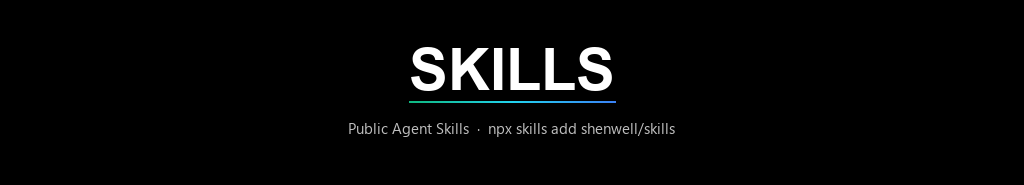
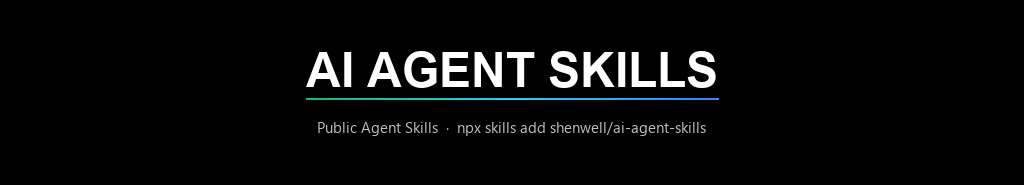
Rename repository to ai-agent-skills and update branding.

Changed region(s): [[0.2812, 0.2432, 0.7188, 0.4865], [0.3125, 0.6486, 0.6875, 0.7297], [0.2812, 0.5135, 0.7188, 0.5676]]

diff --git a/README.md b/README.md
@@ -1,15 +1,17 @@
-# shenwell/skills
+# AI Agent Skills
 
 <p align="center">
-  <img src="assets/banner.png" alt="SKILLS" width="1024" />
+  <img src="assets/banner.png" alt="AI Agent Skills" width="1024" />
 </p>
 
 [![License: MIT](https://img.shields.io/badge/License-MIT-blue.svg)](LICENSE)
 [![Agent Skills](https://img.shields.io/badge/Agent%20Skills-compatible-black)](https://agentskills.io/)
-[![skills.sh](https://skills.sh/b/shenwell/skills)](https://skills.sh/shenwell/skills)
+[![skills.sh](https://skills.sh/b/shenwell/ai-agent-skills)](https://skills.sh/shenwell/ai-agent-skills)
+
+Public collection of [Agent Skills](https://agentskills.io/) for Cursor, Claude Code, Codex, Windsurf, and more.
 
 ```
-shenwell/skills
+shenwell/ai-agent-skills
 └── skills/
     ├── goal-mode/          ← Claude Code /goal equivalent (open)
     └── <next-skill>/
@@ -20,10 +22,10 @@ shenwell/skills
 ## Install
 
 ```bash
-npx skills add shenwell/skills --list
-npx skills add shenwell/skills --skill goal-mode -g
+npx skills add shenwell/ai-agent-skills --list
+npx skills add shenwell/ai-agent-skills --skill goal-mode -g
 # or all skills in this repo:
-npx skills add shenwell/skills --all -g
+npx skills add shenwell/ai-agent-skills --all -g
 ```
 
 ### After install — bootstrap the project (goal-mode)
@@ -109,7 +111,7 @@ skills/my-skill/SKILL.md   # name + description frontmatter (required)
 1. Create the folder + `SKILL.md`
 2. `npx skills add . --list`
 3. Document it above
-4. Push → `npx skills add shenwell/skills --skill my-skill`
+4. Push → `npx skills add shenwell/ai-agent-skills --skill my-skill`
 
 ---
 

diff --git a/skills/goal-mode/README.md b/skills/goal-mode/README.md
@@ -9,7 +9,7 @@ Open **Goal Mode** for AI coding agents — durable-contract equivalent of [Clau
 ## Install
 
 ```bash
-npx skills add shenwell/skills --skill goal-mode -g
+npx skills add shenwell/ai-agent-skills --skill goal-mode -g
 node ~/.cursor/skills/goal-mode/scripts/goal-bootstrap.js
 ```
 
